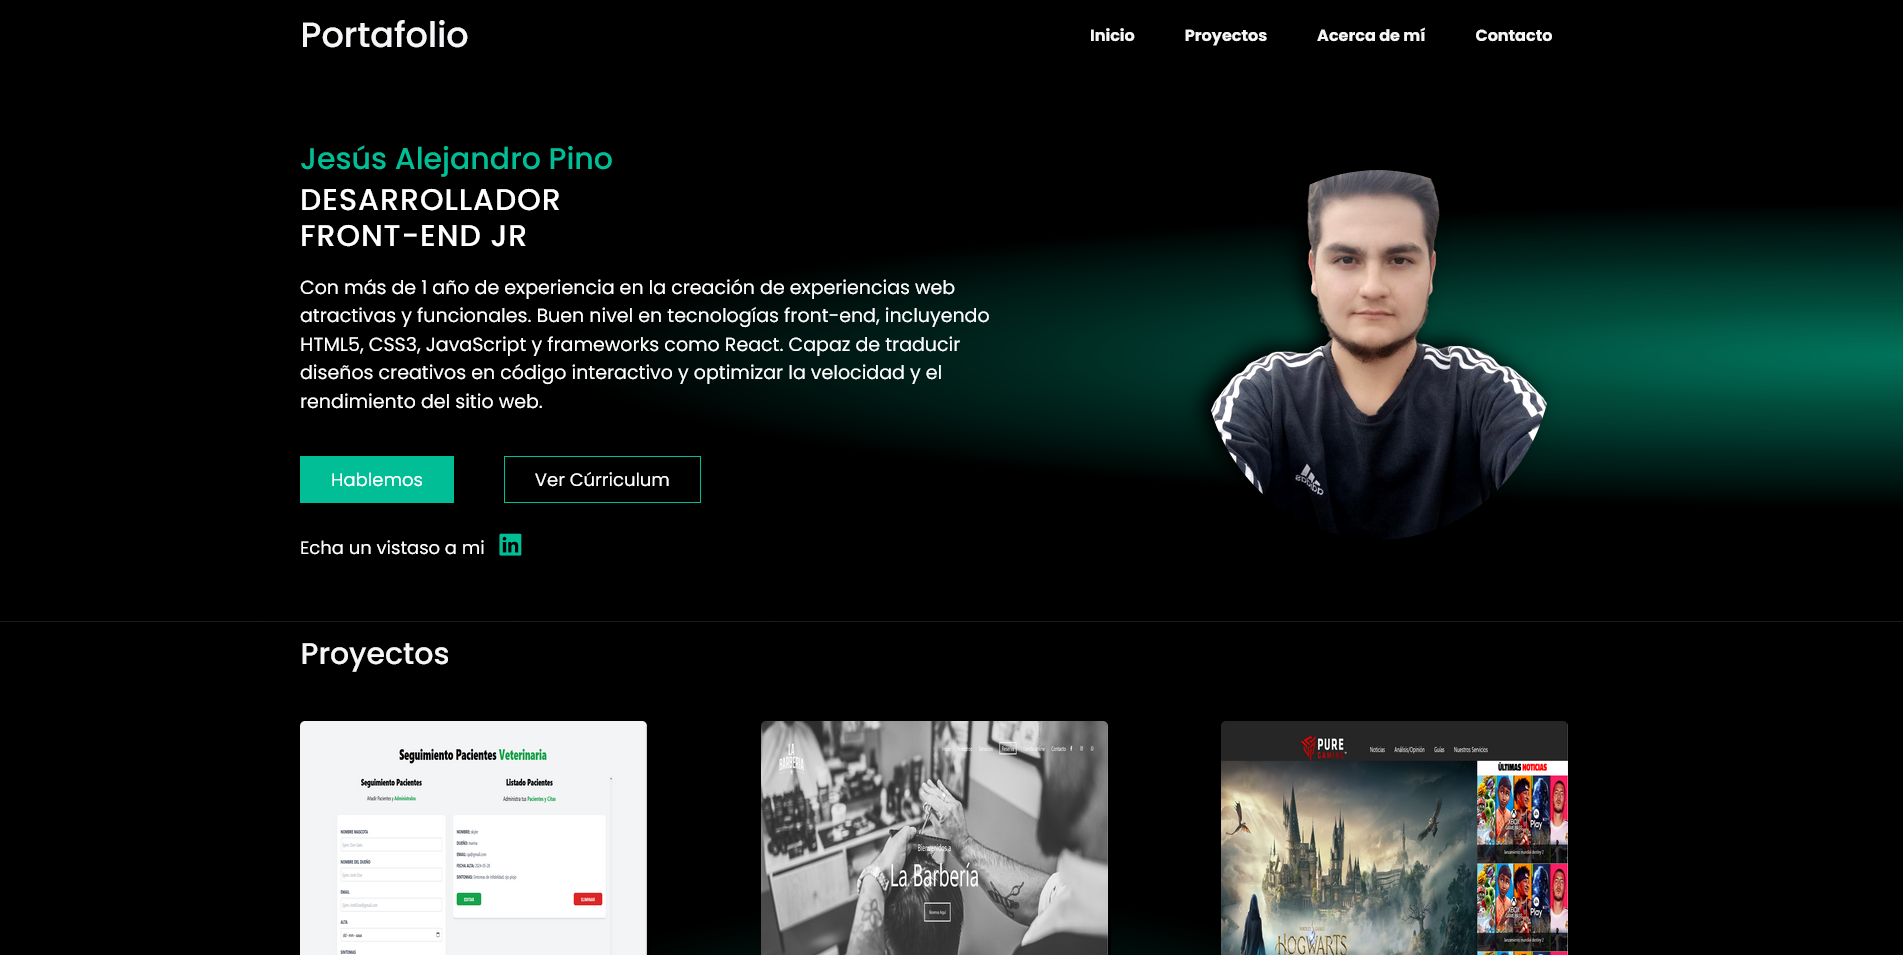
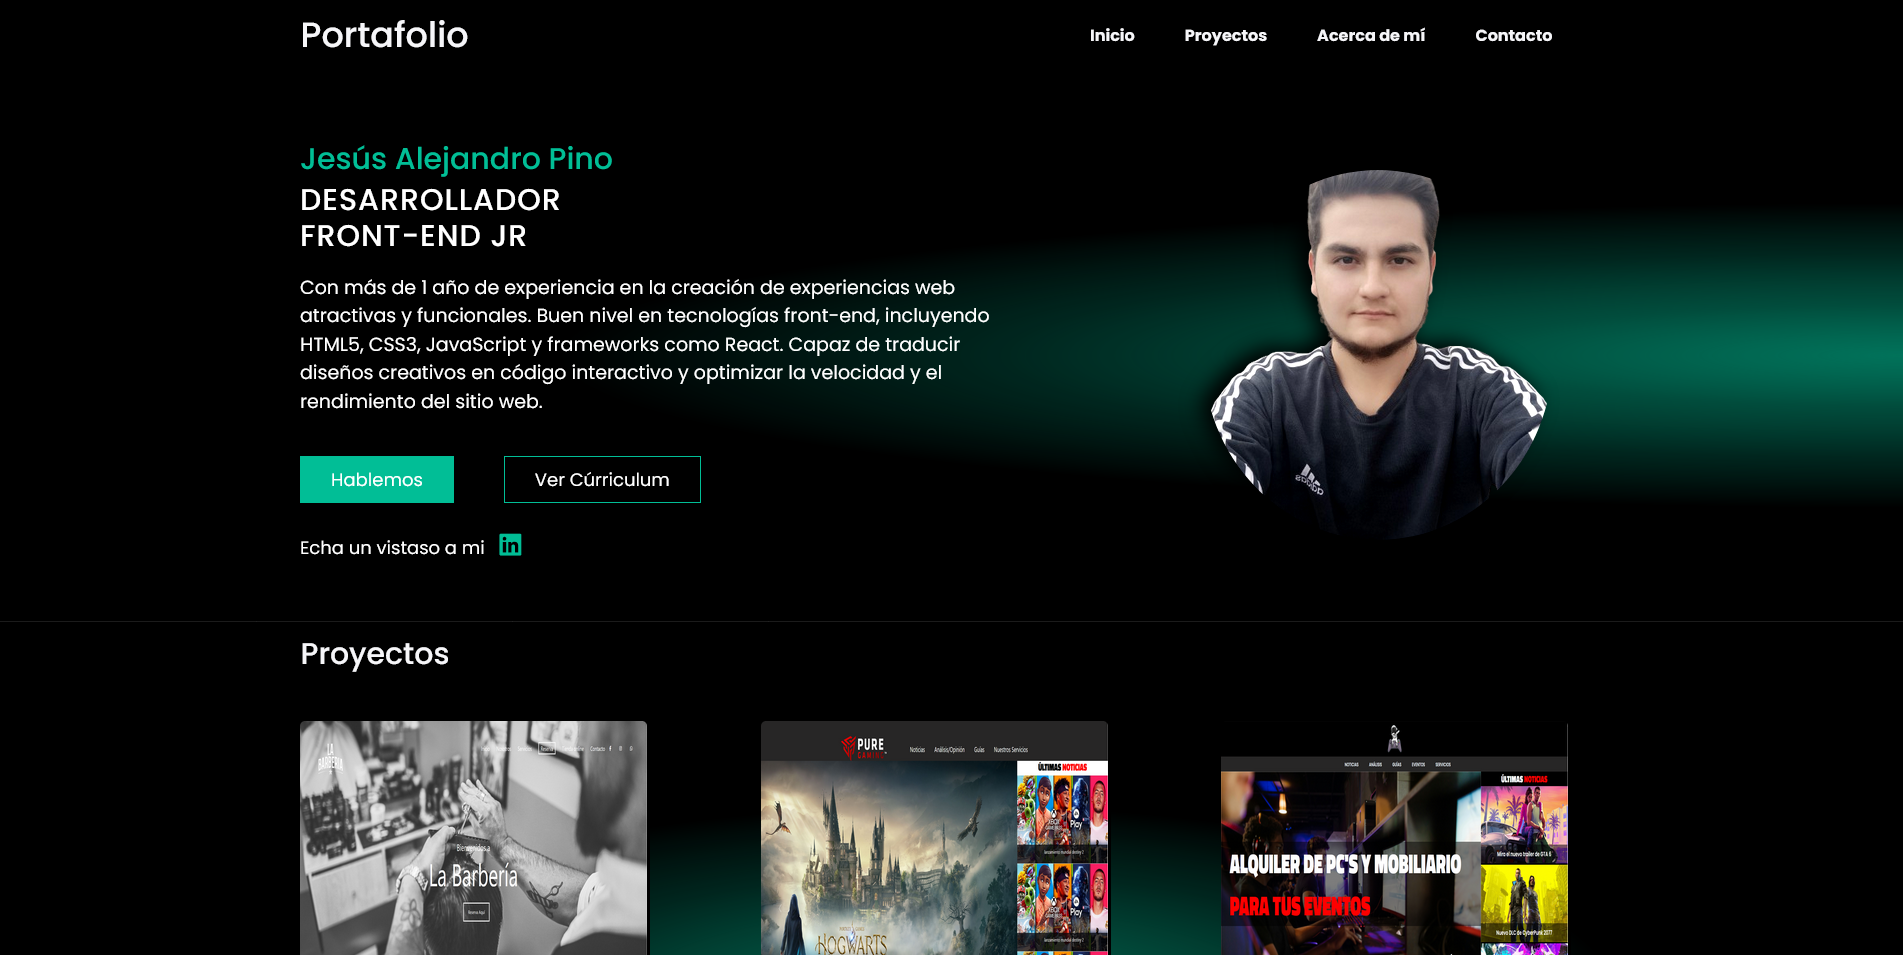
se actualiza

Changed region(s): [[0.155, 0.7288, 0.8371, 1.0]]

diff --git a/src/components/Proyectos.jsx b/src/components/Proyectos.jsx
@@ -4,11 +4,13 @@ import veterinaria from "../img/veterinaria.png"
 import labarberia from "../img/labarberia.png"
 import blog from "../img/Blog Games.png"
 import portafoliodesactualizado from "../img/Portafoliodesactualizado.png"
+import pokeapi from "../img/pokeapi.png"
 import tailwind from "../img/tailwindcss.png"
 import figma from "../img/figma.png";
 import html from "../img/html-5.png";
 import css from "../img/css-3.png";
 import js from "../img/js.png";
+import api from "../img/api.png"
 function Proyectos() {
   return (
     <>
@@ -152,6 +154,87 @@ function Proyectos() {
 
               <div className="proyectos-grid-item-flex-boton">
                 <a href="https://yisus01.github.io/AgendarCitas/">Ver proyecto</a>
+              </div>
+            </div>
+          </div>
+
+          <div className="proyectos-grid-item">
+            <div className="proyectos-grid-item-flex">
+              <div className="proyectos-grid-item-flex-img">
+                <img src={pokeapi} alt="clonmercado" />
+              </div>
+
+              <div className="proyectos-grid-item-flex-titulo">
+                <h2>Busca tu pokemon con PokeApi</h2>
+              </div>
+
+              <div className="proyectos-grid-item-flex-parrafo">
+                <p>
+                  Proyecto de consumo de API de PokeApi en el cual
+                  practique como consumir una API con AXIOS
+                </p>
+              </div>
+
+              <div className="proyectos-grid-item-flex-tecnologias">
+                <h2>Tecnologías</h2>
+              </div>
+
+              <div className="proyectos-grid-item-flex-iconos">
+                <div className="proyectos-grid-item-flex-iconos-html">
+                  {/* <i class="fa-brands fa-html5"></i> */}
+                  <img src={html} alt="" />
+                  <p>HTML</p>
+                </div>
+
+                <div className="proyectos-grid-item-flex-iconos-css">
+                  {/* <i class="fa-brands fa-css3-alt"></i> */}
+                  <img src={css} alt="" />
+                  <p>CSS</p>
+                </div>
+
+                <div className="proyectos-grid-item-flex-iconos-js">
+                  {/* <i class="fa-brands fa-js"></i> */}
+                  <img src={js} alt="" />
+                  <p>JavaScript</p>
+                </div>
+
+                <div className="proyectos-grid-item-flex-iconos-react">
+                  <i class="fa-brands fa-react"></i>
+                  <p>REACT</p>
+                </div>
+
+                {/* <div className="proyectos-grid-item-flex-iconos-bootstrap">
+                  <i class="fa-brands fa-bootstrap"></i> 
+                  <img src={bootstrap} alt="" />
+                  <p>Bootstrap</p>
+                </div> */}
+
+                {/* <div className="proyectos-grid-item-flex-iconos-figma">
+                <img src={figma} alt="" />
+                <p>FIGMA</p>
+                </div> */}
+
+                <div className="proyectos-grid-item-flex-iconos-github">
+                  <i class="fa-brands fa-github"></i>
+                  {/* <img src={github} alt="" /> */}
+                  <p>GITHUB</p>
+                </div>
+
+                <div className="proyectos-grid-item-flex-iconos-git">
+                  {/* <i class="fa-brands fa-git-alt"></i> */}
+                  {/* <img src={git} alt="" /> */}
+                  {/* <p>GIT</p> */}
+                </div>
+
+                <div className="proyectos-grid-item-flex-iconos-api">
+                  {/* <i class="fa-brands fa-git-alt"></i> */}
+                  <img src={api} alt="" />
+                  <p>API REST</p>
+                </div>
+              </div>
+
+              <div className="proyectos-grid-item-flex-boton">
+                <a href="https://yisus01.github.io/LaBarber/">Ver proyecto</a>
               </div>
             </div>
           </div>

diff --git a/src/index.css b/src/index.css
@@ -30,6 +30,7 @@ i::before {
 }
 .headerdiv{
     background-color: white;
+    /* background-color: red; */
     display: flex;
     justify-content: space-evenly;
     position: fixed;
@@ -152,7 +153,10 @@ i::before {
 @media only screen and (max-width: 768px){
   .headerdiv{
       background-color: white;
+      /* background-color: red; */
+      height: 1rem;
       border-bottom: solid 2px #01BE96;
+      padding-bottom: 6.1rem;
       /* box-shadow: 0 10px 15px rgba(1, 190, 150, 0.3); */
   }
   .headerdiv-enlaces ul{
@@ -259,8 +263,9 @@ i::before {
   }
   .heroderecha-descripcion{
     /* background-color: violet; */
-    width: 26.72rem;
+    width: 25rem;
     text-align: center;
+    margin-left: 6px;
   }
   .heroderecha-iconos{
     /* background-color: peru; */
@@ -366,13 +371,14 @@ i::before {
   }
   .acercademi-izquierda-texto{
     /* background-color: red; */
-    width: 26.6rem;
+    width: 25rem;
     text-align: center;
+    margin-left: 5px;
   }
   .acercademi-izquierda-info ul{
     /* background-color: red; */
     width: 10rem;
-    margin-left: 10rem;
+    margin-left: 7rem;
   }
   .acercademi-izquierda-info i{
     position: relative;
@@ -381,7 +387,7 @@ i::before {
   .acercademi-derecha img{
     width: 20rem;
     margin-left: 0;
-    margin-left: 5rem;
+    margin-left: 3.9rem;
     margin-top: 5rem;
 
   }
@@ -431,7 +437,6 @@ i::before {
   margin-top: 2rem;
 }
 
-
 .proyectos-grid-item-flex-iconos-html img{
   /* color:#FF5722; */
   width: 4rem;
@@ -476,6 +481,13 @@ i::before {
 .proyectos-grid-item-flex-iconos-git i{
   color: #F34F29;
 }
+.proyectos-grid-item-flex-iconos-api img{
+  width: 4rem;
+  margin-top: -2rem;
+  position: relative;
+  top: 3px;
+  /* background-color: blue; */
+}
 
 @media (max-width: 768px){
   .habilidades{
@@ -487,12 +499,14 @@ i::before {
     width: 26.6rem;
   }
   .habilidades-parrafo{
-    width: 26.6rem;
+    width: 25rem;
+    margin-left: 5px;
+    /* background-color: red; */
   }
   .habilidades-iconos{
     /* background-color: #58C4DC; */
-    width: 26.6rem;
-    margin-left: 0;
+    width: 25rem;
+    margin-left: 5px;
     display: grid;
     grid-template-columns: repeat(4,1fr);
   }
@@ -595,15 +609,29 @@ i::before {
   .proyectos-grid-item-flex{
     /* background-color: red; */
     width: 26.6rem;
+    border: solid 1px rgb(219, 219, 219);
+  }
+  .proyectos-grid-item-flex-img{
+    /* background-color: red; */
+    margin-left: 0;
+    margin-right: 13px;
   }
   .proyectos-grid-item-flex-img img{
-    width: 26em;
-    margin-left: 0;
+    width: 25em;
+    text-align: center;
+    border: none;
   }
   .proyectos-grid-item-flex-iconos{
     /* background-color: aqua; */
     display: grid;
     grid-template-columns: repeat(5,1fr);
+    width: 25rem;
+    margin-left: 5px;
+  }
+  .proyectos-grid-item-flex-parrafo{
+    /* background-color: red; */
+    width: 22rem;
+    margin-left: 1.7rem;
   }
 }
 /*********************************************************************************/
@@ -656,5 +684,10 @@ i::before {
   .footerdiv-redes{
     /* background-color: aquamarine; */
     margin-left: 9rem;
+  }
+  .footerdiv-parrafo{
+    /* background-color: red; */
+    width: 25rem;
+    margin-left: 6px;
   }
 }

diff --git a/index.html b/index.html
@@ -7,7 +7,7 @@
     <link rel="preconnect" href="https://fonts.gstatic.com" crossorigin>
     <link href="https://fonts.googleapis.com/css2?family=Poppins:ital,wght@0,100;0,200;0,300;0,400;0,500;0,600;0,700;0,800;0,900;1,100;1,200;1,300;1,400;1,500;1,600;1,700;1,800;1,900&display=swap" rel="stylesheet">
     <link rel="stylesheet" href="https://cdnjs.cloudflare.com/ajax/libs/font-awesome/5.15.4/css/all.min.css">
-
+    <link rel="icon" href="/src/img/slash.png">
     <title>Portafolio</title>
   </head>
   <body>

diff --git a/src/components/Hero.jsx b/src/components/Hero.jsx
@@ -26,7 +26,7 @@ function Hero() {
                 </div>
 
                 <div className="heroderecha-cv">
-                    <a href="#">Ver Currículum</a>
+                    <a href="https://drive.google.com/file/d/1ESEtW8yFAX2ScyHOh-hfGWqkwaRqoavo/view?usp=drive_link">Ver Currículum</a>
                 </div>
             
 
